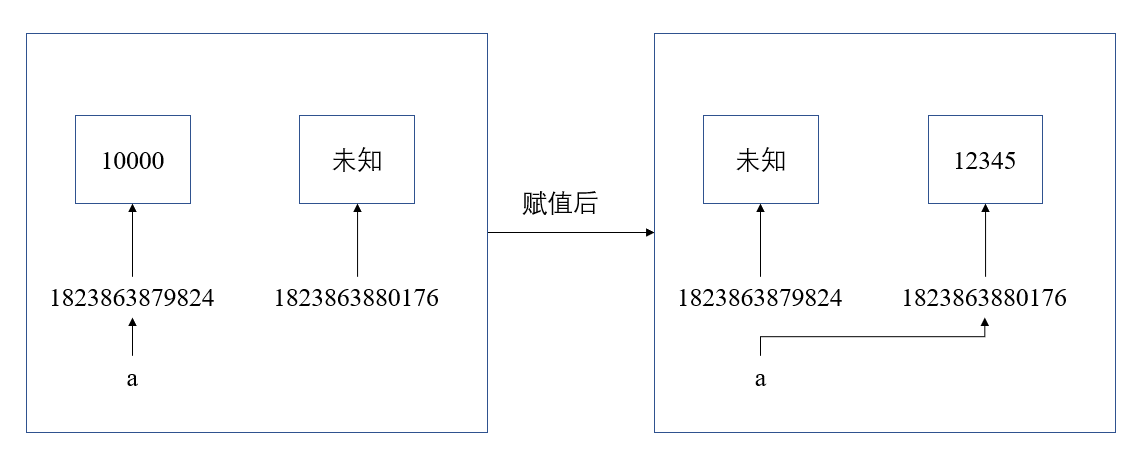
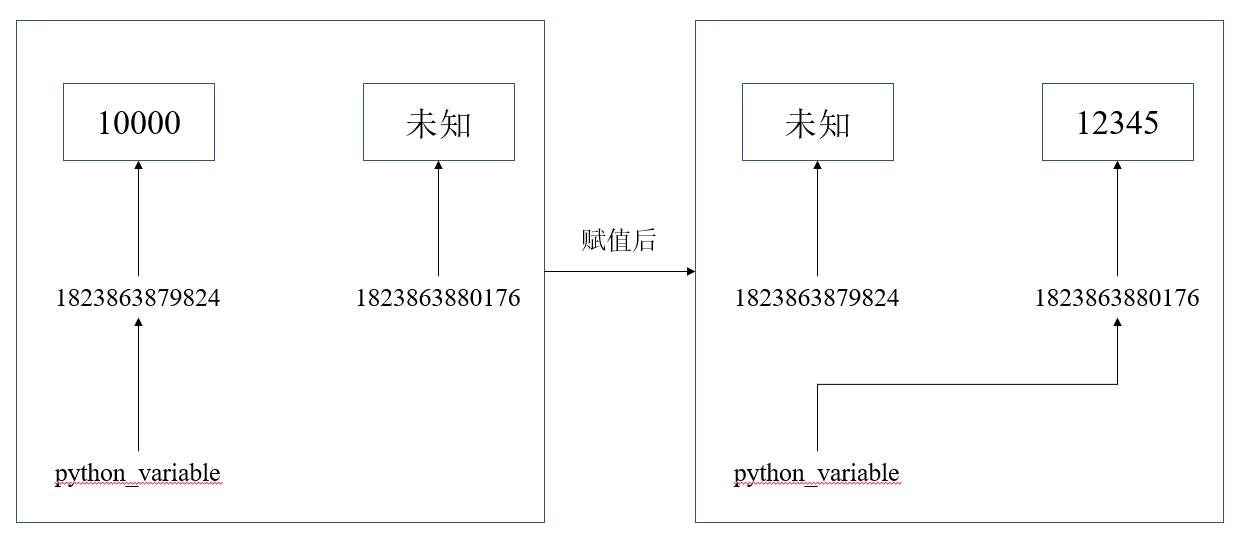
修正《Python 之引用》文中的示例代码

diff --git a/_posts/2019-09-12-python-reference-012.md b/_posts/2019-09-12-python-reference-012.md
@@ -64,46 +64,46 @@ C 语言中，变量代表的就是一段固定的内存，而赋给变量的值
 举例来说，对于如下的 C 代码：
 
 ```c
-int a = 10000;
+int c_variable = 10000;
 printf("original address: %p\n", &a); // original address: 0060FEFC
-a = 12345;
+c_variable = 12345;
 printf("second address: %p\n", &a); // second address: 0060FEFC
 ```
 
-对于有 C 语言编程经验的人来说，上述结果是显而易见的：变量`a`的地址并不会因为赋给它的值有变化而发生变化。对于 C 编译器来说，变量`a`只是协助它区别各个内存地址的标识，是直接与特定的内存地址绑定的，如图所示：
+对于有 C 语言编程经验的人来说，上述结果是显而易见的：变量`c_variable`的地址并不会因为赋给它的值有变化而发生变化。对于 C 编译器来说，变量`c_variable`只是协助它区别各个内存地址的标识，是直接与特定的内存地址绑定的，如图所示：
 
 ![C 语言中的变量赋值](http://www.justdopython.com/assets/images/2019/09/12/2019-09-12-python-reference-012-C.png)
 
 但 Python 就不一样的。考虑如下代码：
 
 ```python
->>> a = 10000
->>> id(a)
+>>> python_variable = 10000
+>>> id(python_variable)
 1823863879824
->>> a = 12345
->>> id(a)
+>>> python_variable = 12345
+>>> id(python_variable)
 1823863880176
 ```
 
 这就有点儿意思了，更加神奇的是，即使赋给变量同一个常数，其得到的`id`也可能不同：
 
 ```python
->>> a = 10000
->>> id(a)
+>>> python_variable = 10000
+>>> id(python_variable)
 1823863880304
->>> a = 10000
->>> id(a)
+>>> python_variable = 10000
+>>> id(python_variable)
 1823863879408
 ```
 
-假如`a`对应的数据类型是一个列表，那么：
+假如`python_variable`对应的数据类型是一个列表，那么：
 
 ```python
->>> a = [1,2]
->>> id(a)
+>>> python_variable = [1,2]
+>>> id(python_variable)
 2161457994952
->>> a = [1,2]
->>> id(a)
+>>> python_variable = [1,2]
+>>> id(python_variable)
 2161458037448
 ```
 
@@ -116,24 +116,24 @@ printf("second address: %p\n", &a); // second address: 0060FEFC
 > 但要注意的是，这里还有一个问题：之所以说“即使赋给变量同一个常数，其得到的`id`也**可能**不同”，实际上是因为并不是对所有的常数都存在这种情况。以常数`1`为例，就有如下结果：
 >
 > ```python
-> >>> a = 1
-> >>> id(a)
+> >>> littleConst = 1 # 数值较小的整型对象
+> >>> id(littleConst)
 > 140734357607232
-> >>> a = 1
-> >>> id(a)
+> >>> littleConst = 1
+> >>> id(littleConst)
 > 140734357607232
 > >>> id(1)
 > 140734357607232
 > ```
 >
-> 可以看到，常数`1`对应的`id`一直都是相同的，没有发生变化，因此变量`a`的`id`也就没有变化。
+> 可以看到，常数`1`对应的`id`一直都是相同的，没有发生变化，因此变量`littleConst`的`id`也就没有变化。
 >
 > 这是因为Python在内存中维护了一个特定数量的常量池，对于一定范围内的数值均不再创建新的对象，而直接在这个常量池中进行分配。实际上在我的机器上使用如下代码可以得到这个常量池的范围是 [0, 256] ，而 256 刚好是一个字节的二进制码可以表示的值的个数。
 >
 > ```python
-> for b in range(300):
->     if b is not range(300)[b]:
->         print("常量池最大值为：", (b - 1))
+> for constant in range(300):
+>     if constant is not range(300)[constant]:
+>         print("常量池最大值为：", (constant - 1))
 >         break
 > # 常量池最大值为： 256
 > ```
@@ -141,26 +141,26 @@ printf("second address: %p\n", &a); // second address: 0060FEFC
 相应地，对于数值进行加减乘除并将结果赋给原来的变量，都会改变变量对应的引用值：
 
 ```python
->>> a = 10000
->>> id(a)
+>>> change_ref = 10000
+>>> id(change_ref)
 2161457772304
->>> a = a + 1
->>> a
+>>> change_ref = change_ref + 1
+>>> change_ref
 10001
->>> id(a)
+>>> id(change_ref)
 2161457772880
 ```
 
-比较代码块第 3、8行的输出结果，可以看到对数值型变量执行加法并赋值会改变对应变量的引用值。这样的表现应该比较好理解。因为按照 Python 运算符的优先级，`a = a + 1`实际上就是`a = (a + 1)`，对变量`a`对应的数值加1之后得到的是一个新的数值，再将这个新的数值赋给`a` ，于是`a`的引用也就随之改变。列表也一样：
+比较代码块第 3、8行的输出结果，可以看到对数值型变量执行加法并赋值会改变对应变量的引用值。这样的表现应该比较好理解。因为按照 Python 运算符的优先级，`change_ref = change_ref + 1`实际上就是`change_ref = (change_ref + 1)`，对变量`change_ref`对应的数值加1之后得到的是一个新的数值，再将这个新的数值赋给`change_ref` ，于是`change_ref`的引用也就随之改变。列表也一样：
 
 ```python
->>> a = [1,2]
->>> id(a)
+>>> list_change_ref = [1,2]
+>>> id(list_change_ref)
 2161458326920
->>> a = a + [4]
->>> a
+>>> list_change_ref = list_change_ref + [4]
+>>> list_change_ref
 [1, 2, 4]
->>> id(a)
+>>> id(list_change_ref)
 2161458342792
 ```
 
@@ -169,18 +169,18 @@ printf("second address: %p\n", &a); // second address: 0060FEFC
 与数值不同，Python 中对列表对象的操作还表现出另一种特性。考虑下面的代码：
 
 ```python
->>> c = [1, 2, 3]
->>> id(c)
+>>> list_nonchange = [1, 2, 3]
+>>> id(list_nonchange)
 2161458355400
->>> c[2] = 5
->>> c
+>>> list_nonchange[2] = 5
+>>> list_nonchange
 [1, 2, 5]
->>> id(c)
+>>> id(list_nonchange)
 2161458355400
->>> c.append(3)
->>> c
+>>> list_nonchange.append(3)
+>>> list_nonchange
 [1, 2, 5, 3]
->>> id(c)
+>>> id(list_nonchange)
 2161458355400
 ```
 
@@ -189,56 +189,56 @@ printf("second address: %p\n", &a); // second address: 0060FEFC
 更进一步地，如果是两个变量同时引用同一个列表，则对其中一个变量本身直接进行操作，也会影响到另一个变量的值：
 
 ```python
->>> c = [1, 2, 3]
->>> cc = c
->>> id(c)
+>>> list_example = [1, 2, 3]
+>>> list_same_ref = list_example
+>>> id(list_example)
 1823864610120
->>> id(cc)
+>>> id(list_same_ref)
 1823864610120
 ```
 
-显然此时的变量`c`和`cc`的`id`是一致的。现在改变`c`所引用的列表值：
+显然此时的变量`list_example`和`list_same_ref`的`id`是一致的。现在改变`list_example`所引用的列表值：
 
 ```python
->>> c[2] = 5
->>> cc
+>>> list_example[2] = 5
+>>> list_same_ref
 [1, 2, 5]
 ```
 
-可以看到`cc`所引用的列表值也随之变化了。再看看相应地`id`：
+可以看到`list_same_ref`所引用的列表值也随之变化了。再看看相应地`id`：
 
 ```python
->>> id(c)
+>>> id(list_example)
 1823864610120
->>> id(cc)
+>>> id(list_same_ref)
 1823864610120
 ```
 
 两个变量的`id`都没有发生变化。再调用`append()`方法：
 
 ```python
->>> c.append(3)
->>> c
+>>> list_example.append(3)
+>>> list_example
 [1, 2, 5, 3]
->>> cc
+>>> list_same_ref
 [1, 2, 5, 3]
->>> id(c)
+>>> id(list_example)
 1823864610120
->>> id(cc)
+>>> id(list_same_ref)
 1823864610120
 ```
 
 删除元素：
 
 ```python
->>> del c[3]
->>> c
+>>> del list_example[3]
+>>> list_example
 [1, 2, 5]
->>> cc
+>>> list_same_ref
 [1, 2, 5]
->>> id(c)
+>>> id(list_example)
 1823864610120
->>> id(cc)
+>>> id(list_same_ref)
 1823864610120
 ```
 
@@ -287,18 +287,17 @@ printf("second address: %p\n", &a); // second address: 0060FEFC
 由于数字是不可变对象，我们不能够对数值本身进行任何可以改变数据值的操作。因此在 Python 中，每出现一个数值都意味着需要另外分配一个新的内存空间（常量池中的数值例外）。
 
 ```python
->>> a = 10000
->>> a == 10000
+>>> const_ref = 10000 # 
+>>> const_ref == 10000
 True
->>> a is 10000
+>>> const_ref is 10000
 False
->>> id(a)
+>>> id(const_ref)
 2161457773424
 >>> id(10000)
 2161457773136
->>> 
-from sys import getrefcount
->>> getrefcount(a)
+>>> from sys import getrefcount
+>>> getrefcount(const_ref)
 2
 >>> getrefcount(10000)
 3
@@ -306,7 +305,7 @@ from sys import getrefcount
 
 前 9 行的代码容易理解：即使是同样的数值，也可能具有不同的引用值。关键在于这个值是否来自于同一个对象。
 
-而第 10 行的代码则说明除了`getrefcount()`函数的引用外，变量`a`所引用的对象就只有1个引用，也就是变量`a`。一旦变量`a`被释放，则相应的对象引用计数归零，也会被释放；并且只有此时，这个对象对应的内存空间才是真正的“被释放”。
+而第 12 行的代码则说明除了`getrefcount()`函数的引用外，变量`const_ref`所引用的对象就只有1个引用，也就是变量`const_ref`。一旦变量`const_ref`被释放，则相应的对象引用计数归零，也会被释放；并且只有此时，这个对象对应的内存空间才是真正的“被释放”。
 
 而作为可变对象，列表的值是可以在不新建对象的情况下进行改变的，因此对列表对象本身直接进行操作，是可以达到“改变变量值而不改变引用”的目的的。
 
